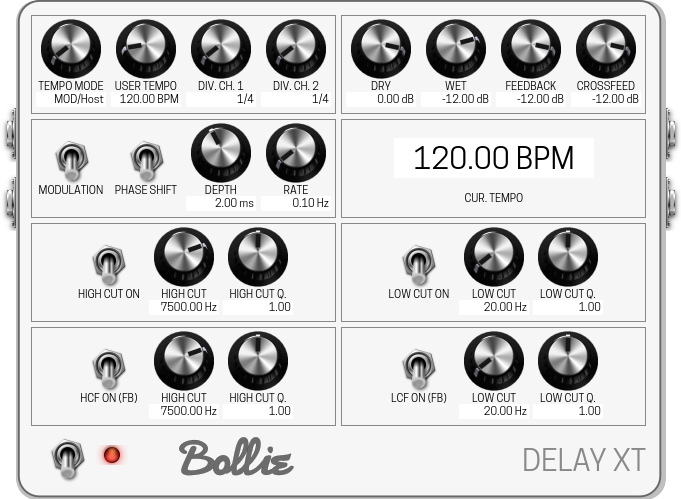
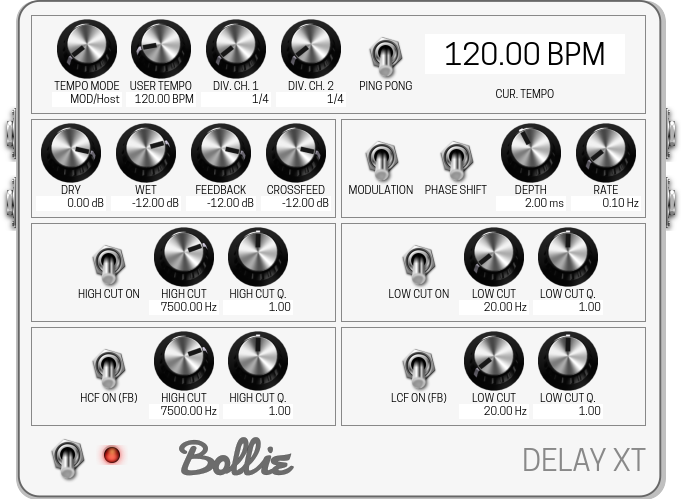
Added switch for ping pong mode.

diff --git a/modgui/bolliedelayxt.html b/modgui/bolliedelayxt.html
@@ -1,6 +1,6 @@
 <div class="mod-pedal bolliedelay">
  <div mod-role="drag-handle" class="mod-drag-handle"></div>
- <div class="bollie-group">
+ <div class="bollie-group double">
   <div class="mod-knob" title="This sets the tempo mode.">
    <div class="mod-knob-image" mod-role="input-control-port"
     mod-port-symbol="CP_TEMPO_MODE"></div><span class=
@@ -28,6 +28,16 @@
     "mod-knob-title">Div. Ch. 2</span>
    <div class="mod-knob-value" contenteditable="false"
     mod-role="input-control-value" mod-port-symbol="CP_TEMPO_DIV_CH1"></div>
+  </div>
+  <div class="mod-knob" title="Ping Pong Mode">
+   <div class="mod-toggle off" mod-role="input-control-port"
+    mod-port-symbol="CP_PING_PONG" mod-widget="switch"></div><span 
+    class="mod-knob-title">Ping Pong</span>
+  </div>
+  <div class="mod-knob bpm" title="Current BPM">
+   <div class="bollie-value" contenteditable="false"
+    mod-role="output-control-value" mod-port-symbol=
+    "CP_TEMPO_OUT"></div><span class="mod-knob-title">Cur. Tempo</span>
   </div>
  </div><div class="bollie-group">
   <div class="mod-knob" title="Dry Gain">
@@ -80,12 +90,6 @@
     class="mod-knob-title">Rate</span>
    <div class="mod-knob-value" contenteditable="false"
     mod-role="input-control-value" mod-port-symbol="CP_MOD_RATE"></div>
-  </div>
- </div><div class="bollie-group">
-  <div class="mod-knob bpm" title="Current BPM">
-   <div class="bollie-value" contenteditable="false"
-    mod-role="output-control-value" mod-port-symbol=
-    "CP_TEMPO_OUT"></div><span class="mod-knob-title">Cur. Tempo</span>
   </div>
  </div><div class="bollie-group">
   <div class="mod-knob" title="Switch High Cut Filter">

diff --git a/modgui/bolliedelayxt.css b/modgui/bolliedelayxt.css
@@ -106,6 +106,20 @@
     text-align: center;
 }
 
+.bolliedelay .bollie-group.double {
+    margin:5px 0px 0px 5px !important;
+    position:relative;
+    text-align:left;
+    z-index:30;
+    border-style: solid;
+    border-width: 1px;
+    border-color: #888888;
+    width: 615px;
+    display:inline-block;
+    padding: 2px 2px 0px 2px;
+    text-align: center;
+}
+
 .bolliedelay .bollie-group .mod-knob > span.mod-knob-title {
     bottom:14px;
     cursor:default;

diff --git a/src/bollie-delay-xt.c b/src/bollie-delay-xt.c
@@ -58,6 +58,7 @@ typedef enum {
     CP_ENABLED,
     CP_TRAILS,
     CP_TEMPO_MODE,
+    CP_PING_PONG,
     CP_TEMPO_HOST,    
     CP_TEMPO_USER,    
     CP_TEMPO_DIV_CH1,
@@ -116,6 +117,7 @@ typedef struct {
     const float *cp_enabled;
     const float *cp_trails;
     const float *cp_tempo_mode;
+    const float *cp_ping_pong;
     const float *cp_tempo_host;
     const float *cp_tempo_user;
     const float *cp_tempo_div_ch1;
@@ -265,6 +267,9 @@ static void connect_port(LV2_Handle instance, uint32_t port, void *data) {
             break;
         case CP_TRAILS:
             self->cp_trails = data;
+            break;
+        case CP_PING_PONG:
+            self->cp_ping_pong = data;
             break;
         case CP_TEMPO_MODE:
             self->cp_tempo_mode = data;
@@ -455,6 +460,7 @@ static void run(LV2_Handle instance, uint32_t n_samples) {
     float cur_mod_depth = self->cur_mod_depth;
     float cur_mod_rate = self->cur_mod_rate;
     float cp_enabled = *self->cp_enabled;
+    float cp_ping_pong = *self->cp_ping_pong;
     float cp_hcf_fb_on = *self->cp_hcf_fb_on;
     float cp_hcf_fb_freq = *self->cp_hcf_fb_freq;
     float cp_hcf_fb_q = *self->cp_hcf_fb_q;
